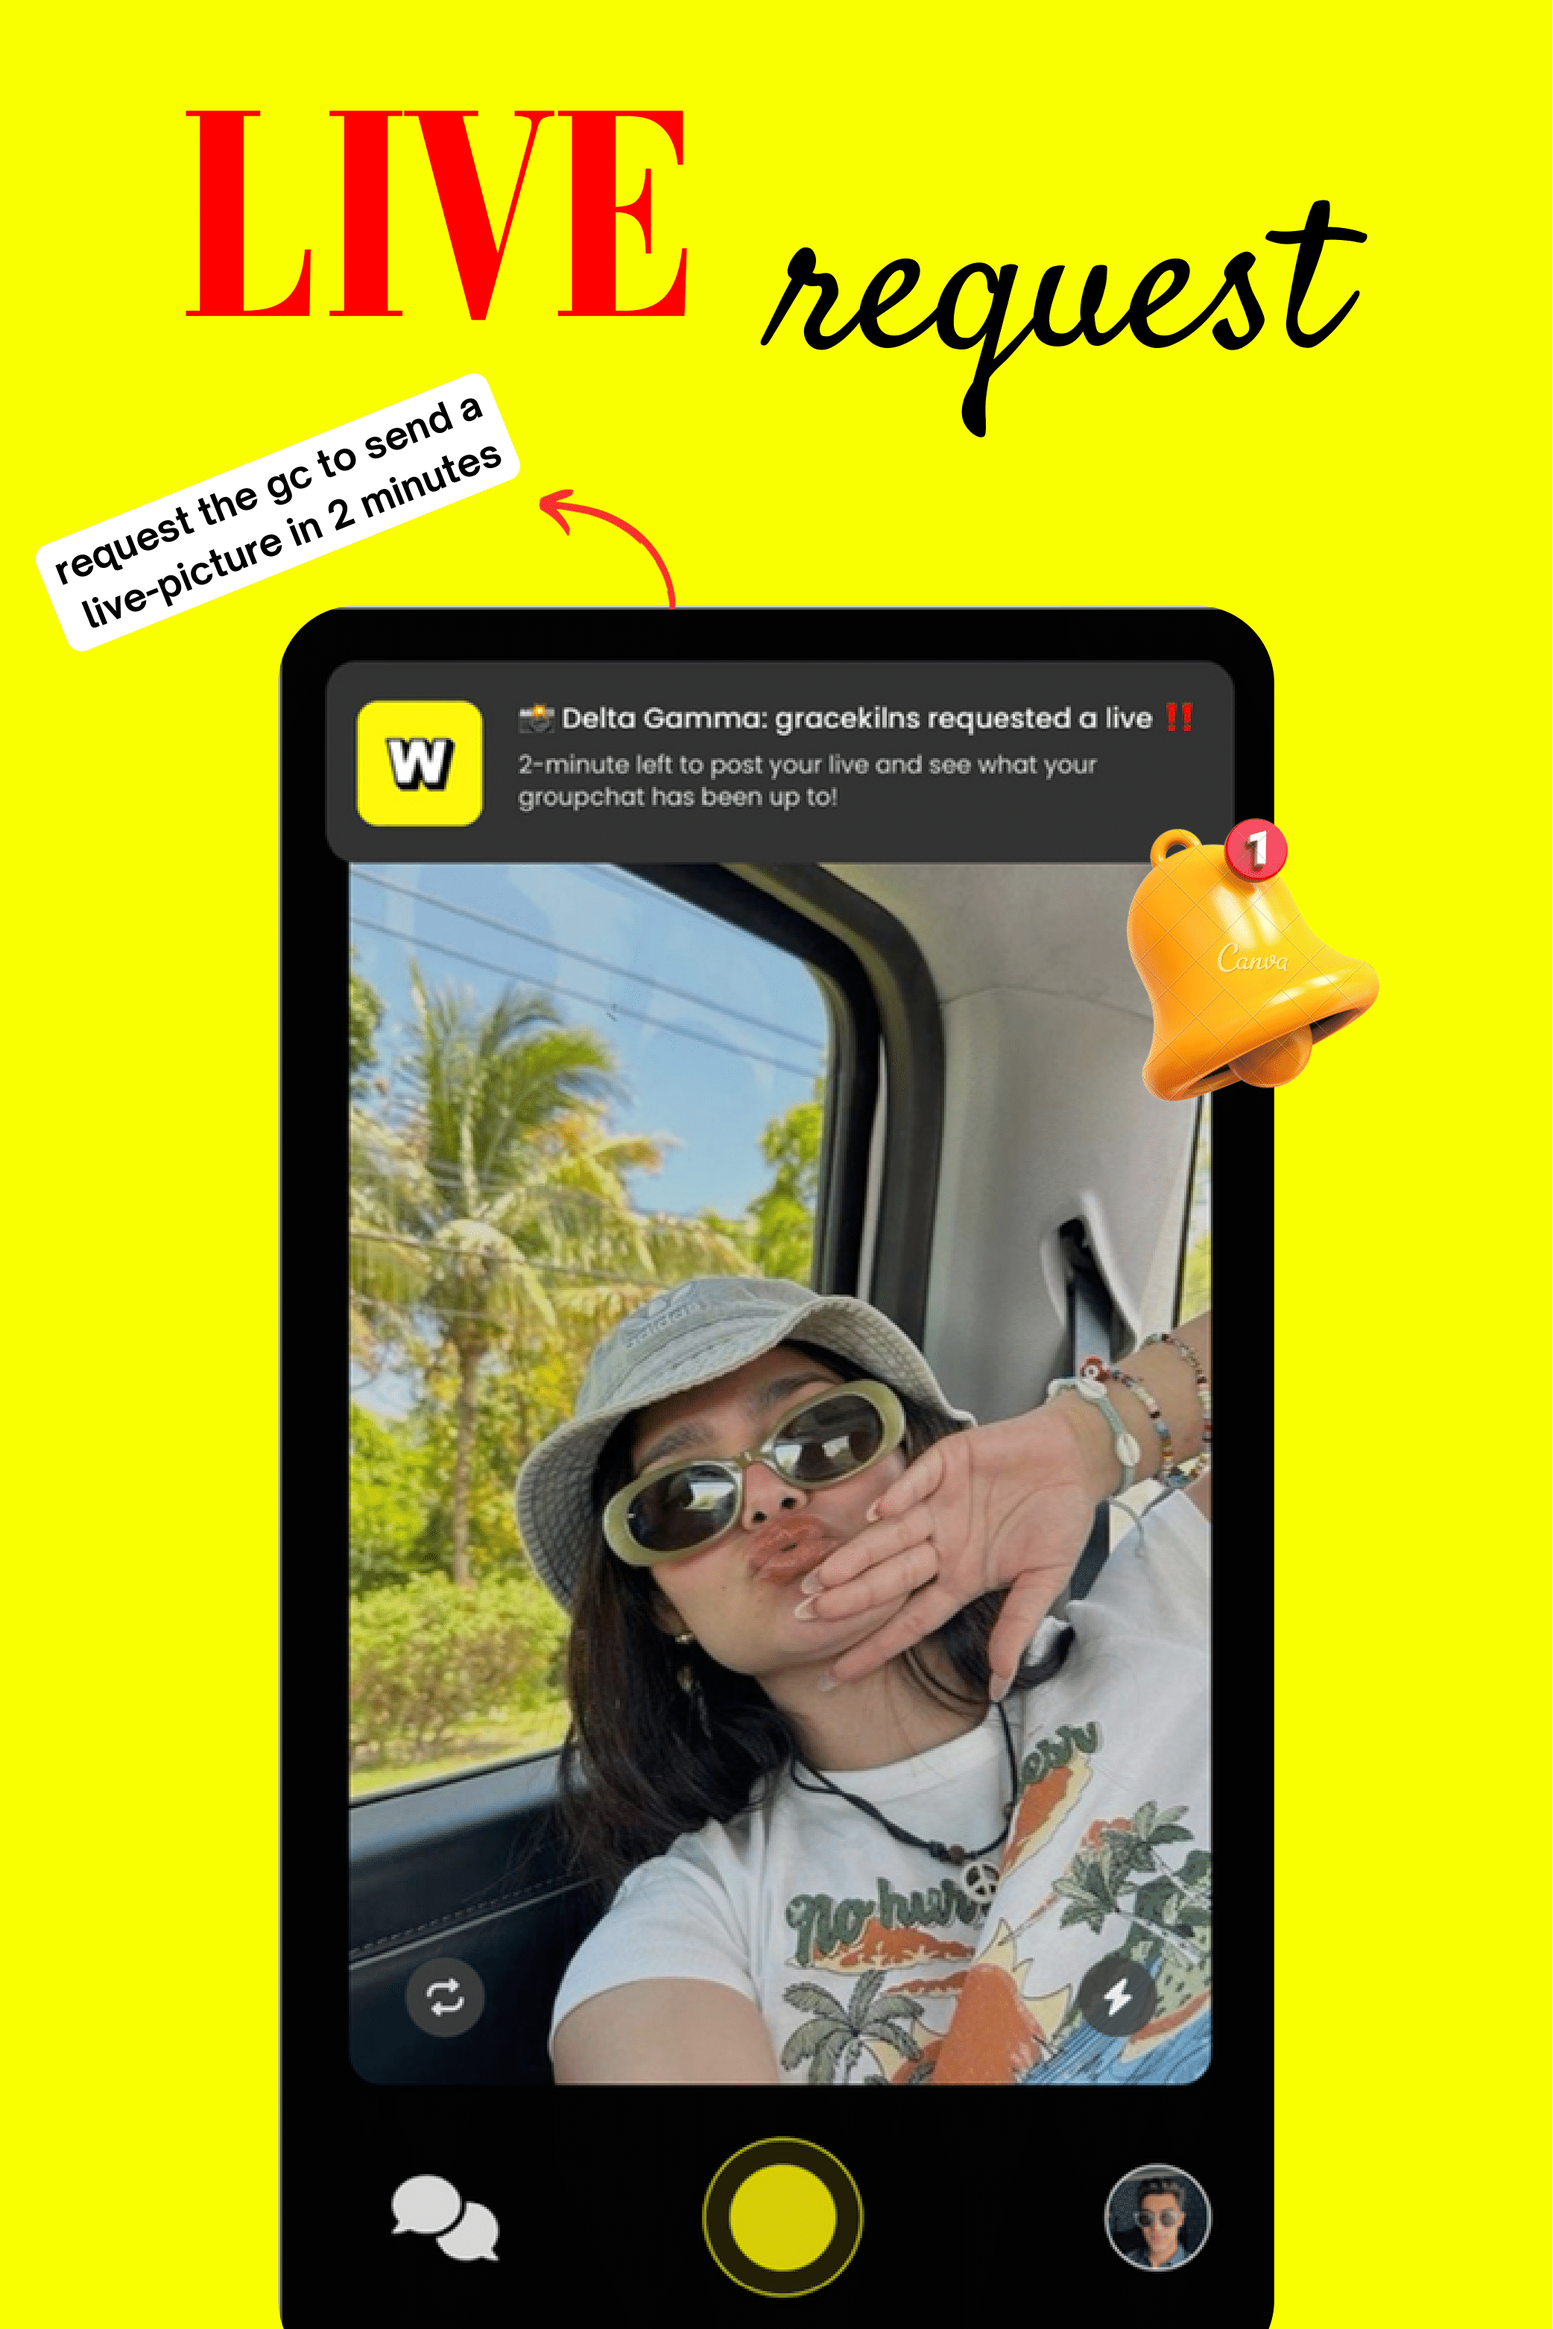
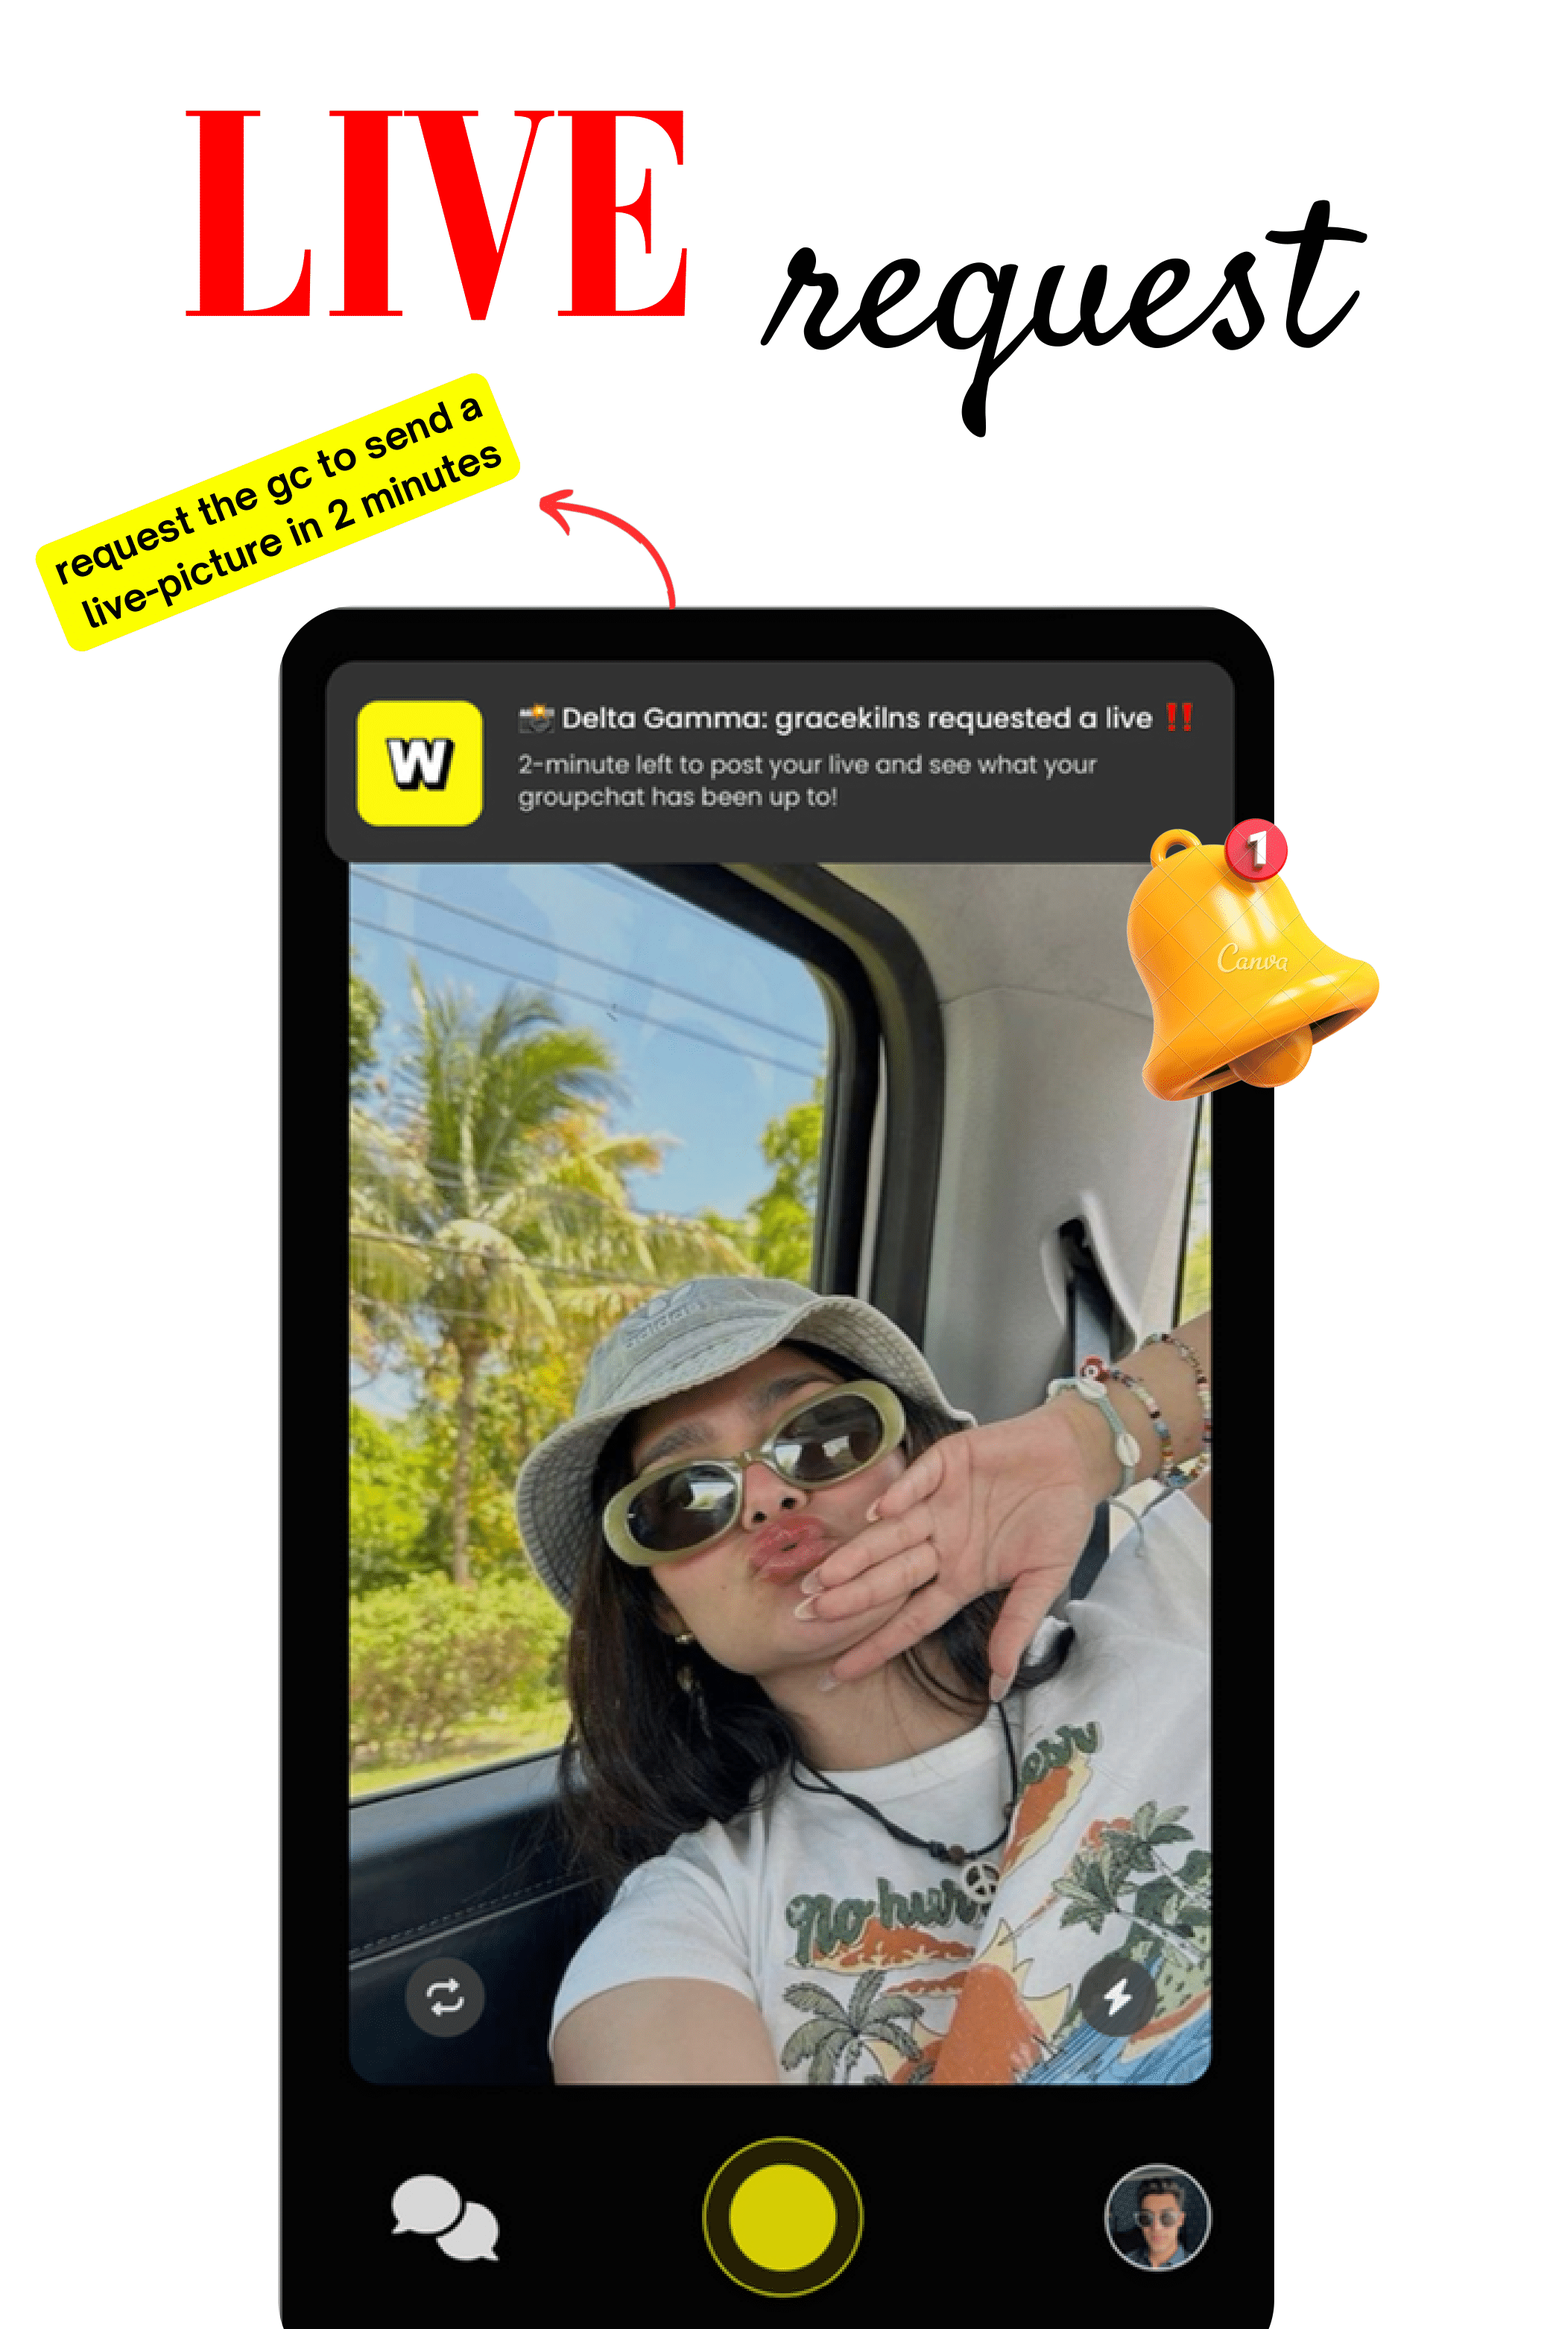
major changes

diff --git a/src/App.css b/src/App.css
@@ -130,7 +130,6 @@
   font-size: 2.25vw;
   font-family: 'Playfair Display';
   text-align: center;
-  text-transform: lowercase;
   margin-bottom: 2vh;
   width: 50vw;
   background-color: transparent;
@@ -205,8 +204,7 @@
 
 @media (max-width: 768px){
 
-
-  .Box_4_inner{
+  .Box_4_inner {
     /* display: flex;
     width: 100vw;
     margin-bottom: 15vh;
@@ -232,7 +230,7 @@
     display: flex;
     height: 100vh;
     width: 100vw;
-    background-color: white;
+    background-color: #faff00;
     flex-direction: column;
     overflow: scroll;
   }
@@ -248,31 +246,31 @@
   .Top_Box{
     display: flex;
     flex-direction: row;
-    justify-content: right;
+    justify-content: center;
     width: 100vw;
     height: 15vh;
-    margin-right:5vw;
-    background-color:white;
-    margin-top: 1vh;
+    background-color:#faff00;
+    margin-top: -5vh;
+    margin-bottom: 5vh;
   }
 
   .top_button{
     cursor: pointer;
-    width: 35vw;
-    height: 5vh;
+    width: 75vw;
+    height: 6vh;
     /* padding: 0px 8px; */
-    border: 1px solid hsl(62, 99%, 49%);
+    border: black;
     box-sizing: border-box;
     border-radius: 250px;
     box-shadow: 0px 0px 10px rgba(3, 3, 3, 0.1);
-    background-color: #f8ee04;
-    color: #000000;
-    font-size: 3vw;
+    background-color: black;
+    color: white;
+    font-size: 4vw;
     font-family: Poppins;
     font-weight: 600;
     line-height: 21px;
     outline: none;
-    margin-top: 1vh;
+    
   }
 
   .Box_1{
@@ -353,28 +351,53 @@
   .message_1{
     color: black;
     font-size: 2rem;
+    font-family: 'Red Hat Display';
+    text-align: center;
+    font-weight: 600;
+    margin-bottom: 15vh;
+    width:80vw;
+  }
+  .message_2{
+    color: black;
+    font-size: 2rem;
     font-family: 'Playfair Display';
     text-align: center;
     font-weight: 600;
     text-transform: lowercase;
+    text-align: center;
     margin-bottom: 2vh;
     width:60vw;
   }
-  .message_2{
+
+  .message_3{
     color: black;
     font-size: 1.25rem;
+    font-style: italic;
+    font-family: 'Red Hat Display';
+    text-align: center;
+    font-weight: 600;
+    text-transform: lowercase;
+    width:100vw;
+    margin-top:8vh;
+    margin-bottom: 12vh;
+  }
+
+  .message_4{
+    color: black;
+    font-size: 2rem;
     font-family: 'Playfair Display';
     text-align: center;
-    font-weight: 400;
+    font-weight: 600;
     text-transform: lowercase;
     text-align: center;
     margin-bottom: 2vh;
-    width:80vw;
+    width:60vw;
+    margin-top: 5vh;
   }
 
   .logo_wrapper {
-    width: 25vw;
-    height: 25vw;
+    width: 40vw;
+    height: 40vw;
     border-radius: 1vh;
   }
 
@@ -396,7 +419,7 @@
     align-items: center;
     width: 100vw;
     height: auto;
-    background-color: pink;
+    background-color: black;
   }
 
   .Box_2_inner_4_inner{
@@ -404,6 +427,7 @@
     flex-direction: column;
     justify-content: space-between;
     width: 75vw;
+    margin-top: 5vh;
     height:auto;
     margin-bottom:5vh;
   }
@@ -422,7 +446,7 @@
   color: #ffffff;
   font-size: 4vw;
   font-family: 'Roboto';
-  margin-bottom: 0.5vh;
+  margin-bottom: 2vh;
 }
 
 .Input_2{
@@ -437,7 +461,7 @@
   color: #ffffff;
   font-size: 4vw;
   font-family: 'Roboto';
-  margin-bottom: 0.5vh;
+  margin-bottom: 2vh;
 }
 
 .submit_button{
@@ -449,8 +473,8 @@
   box-sizing: border-box;
   border-radius: 250px;
   box-shadow: 0px 0px 10px rgba(3, 3, 3, 0.1);
-  background-color: #f8ee04;
-  color: #000000;
+  background-color: #faff00;
+  color: black;
   font-size: 4vw;
   font-family: Poppins;
   font-weight: 600;
@@ -485,7 +509,7 @@
   .top_button{
     cursor: pointer;
     width: 25vw;
-    height: 10vh;
+    height: 13vh;
     /* padding: 0px 8px; */
     border: 1px solid hsl(62, 99%, 49%);
     box-sizing: border-box;
@@ -598,7 +622,8 @@
   align-items: center;
   width: 100vw;
   height: auto;
-  background-color: pink;
+  margin-top: 5vh;
+  background-color: black;
 }
 
 .Box_2_inner_4_inner{

diff --git a/src/App.js b/src/App.js
@@ -17,12 +17,12 @@ import camera from './assets/camera.png';
 import feature_1 from './assets/center-1.png';
 import feature_2 from './assets/center-2.png';
 import feature_3 from './assets/center-3.png';
-import { useRef} from 'react';
+import {useRef} from 'react';
 
 
 function App() {
 
-  const message_1_spaces = window.innerHeight <= 750 ? "lets make " : "lets make";
+  const message_1_spaces = window.innerHeight <= 750 ? "THE GEN Z " : "THE GEN Z";
   //const message_1_spaces = window.matchMedia("(orientation: landscape)").matches ? "lets make" : "lets make\n ";
   
   const bottomRef = useRef(null);
@@ -37,9 +37,7 @@ function App() {
 
   <div class = 'Box_0'> 
   </div>
-  <div className='Top_Box'>
-  <button class="top_button" onClick={scrollToBottom}>join the W-list</button>
-  </div>
+  
 
   <div class = 'Box_1'>
   <div className='Box_1_inner'>
@@ -83,8 +81,17 @@ function App() {
     <img src={logo} className='logo_wrapper' alt='image_1'/>
 
     <div class="message_1" style={{ whiteSpace: 'pre-wrap' }}>
-    {message_1_spaces} <span style={{fontStyle:'italic'}}>✨groupchats✨</span> fun again.
+    {message_1_spaces} <span style={{fontStyle:'italic'}}><span style={{fontWeight:800}}>GROUPCHAT </span>APP</span>
     </div>
+
+  <div className='Top_Box'>
+  <button class="top_button" onClick={scrollToBottom}>join the W-list</button>
+  </div>
+
+    <div className="message_3"> 
+      swipe down for og features
+    </div>
+    
 
     <div class="Box_2_boxes">
     <div class="Box_2_box_card">
@@ -134,14 +141,14 @@ function App() {
 
     <div className='Box_2_image_holder'>
     <img src={feature_1} className='Box_2_image' alt='image_1'/>
-    <img src={feature_3} className='Box_2_image' alt='image_1'/>
     <img src={feature_2} className='Box_2_image' alt='image_1'/>
+    <img src={feature_3} className='Box_2_image' alt='image_1'/>
   </div>
 
     <div className="Box_2_inner_4">
     <br />
-    <div class="message_1">
-    making social media social again
+    <div class="message_4" style={{color:'white'}}>
+    lets make <span style={{fontStyle:'italic'}}>✨groupchats✨</span> fun again.
     </div>
   <div class = "Box_2_inner_4_inner" ref={bottomRef} >
     
